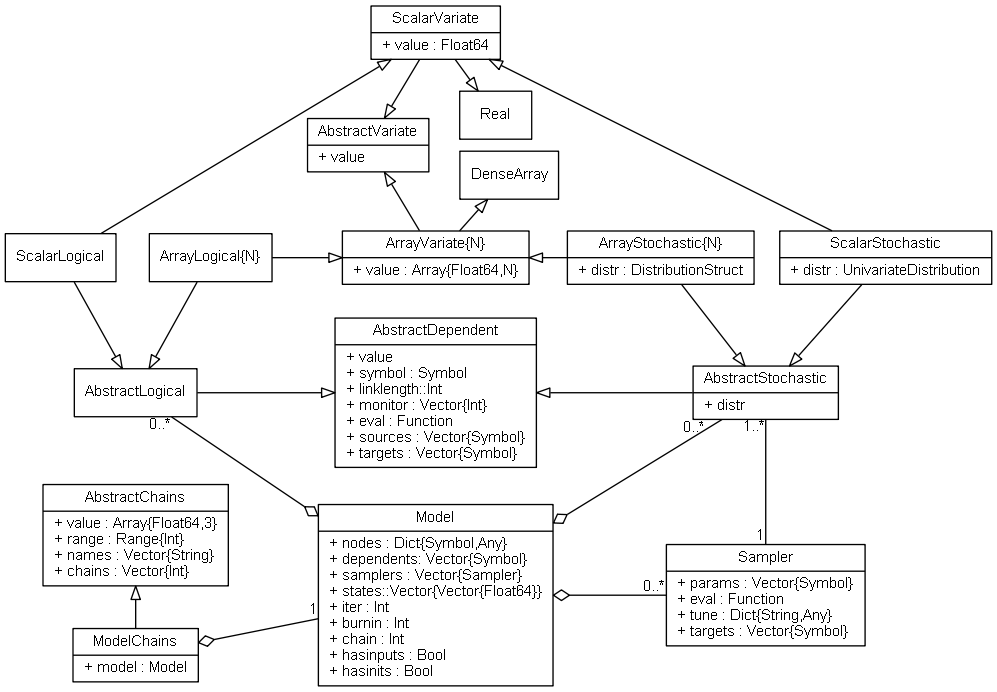
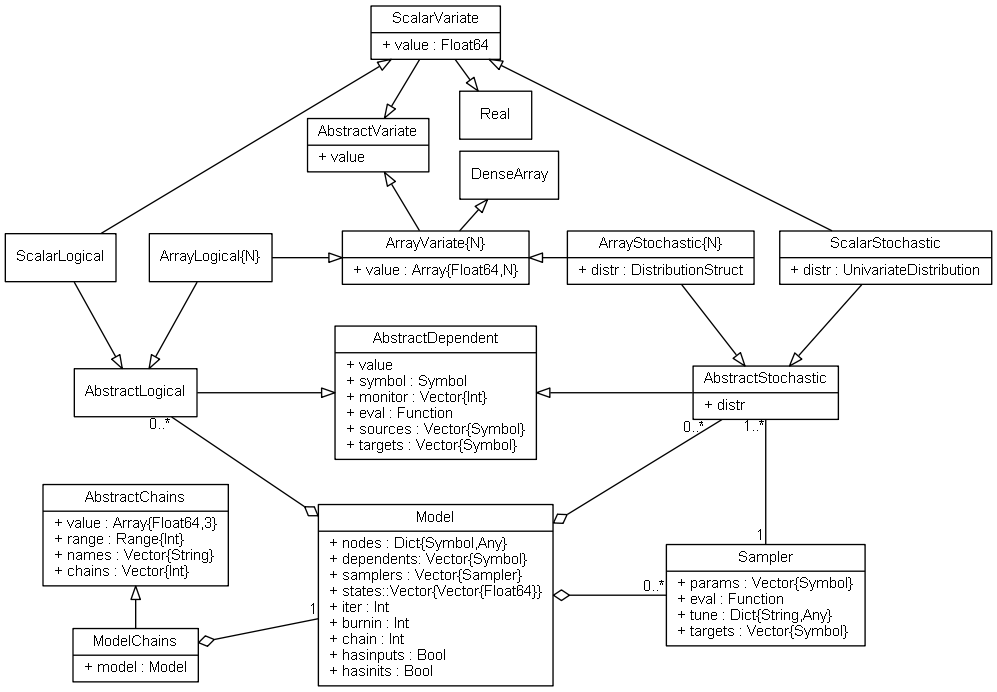
Remove linklength field from AbstractDependent types.

Changed region(s): [[0.342, 0.4552, 0.5286, 0.6676]]

diff --git a/doc/mcmc/dependent.rst b/doc/mcmc/dependent.rst
@@ -20,7 +20,6 @@ Fields
 
 * ``value::T`` : a scalar or array of ``Float64`` values that represent samples from a target distribution.
 * ``symbol::Symbol`` : an identifying symbol for the node.
-* ``linklength::Int`` : number of elements returned by the ``link`` method defined on the type.  Generally, this will be the number of unique elements in the node.  In most cases, ``linklength`` will be equal to ``length(value)``.  However, for some structures, like stochastic covariance matrices, ``linklength`` may be smaller.
 * ``monitor::Vector{Int}`` : indices identifying elements of the ``value`` field to include in monitored MCMC sampler output.
 * ``eval::Function`` : a function for updating the state of the node.
 * ``sources::Vector{Symbol}`` : symbols of other nodes upon whom the values of this one depends.
@@ -123,7 +122,6 @@ Fields
 
 * ``value`` : values of type ``Float64`` for ``ScalarLogical`` nodes and ``Array{Float64}`` for ``ArrayLogical`` nodes that represent samples from a target distribution.
 * ``symbol::Symbol`` : an identifying symbol for the node.
-* ``linklength::Int`` : number of elements returned by the ``link`` method defined on the type.
 * ``monitor::Vector{Int}`` : indices identifying elements of the ``value`` field to include in monitored MCMC sampler output.
 * ``eval::Function`` : a function for updating values stored in ``value``.
 * ``sources::Vector{Symbol}`` : symbols of other nodes upon whom the values of this one depends.
@@ -217,7 +215,6 @@ Fields
 
 * ``value`` : values of type ``Float64`` for ``ScalarStochastic`` nodes and ``Array{Float64}`` for ``ArrayStochastic`` nodes that represent samples from a target distribution.
 * ``symbol::Symbol`` : an identifying symbol for the node.
-* ``linklength::Int`` : number of elements returned by the ``link`` method defined on the type.
 * ``monitor::Vector{Int}`` : indices identifying elements of the ``value`` field to include in monitored MCMC sampler output.
 * ``eval::Function`` : a function for updating the ``distr`` field for the node.
 * ``sources::Vector{Symbol}`` : symbols of other nodes upon whom the distributional specification for this one depends.
